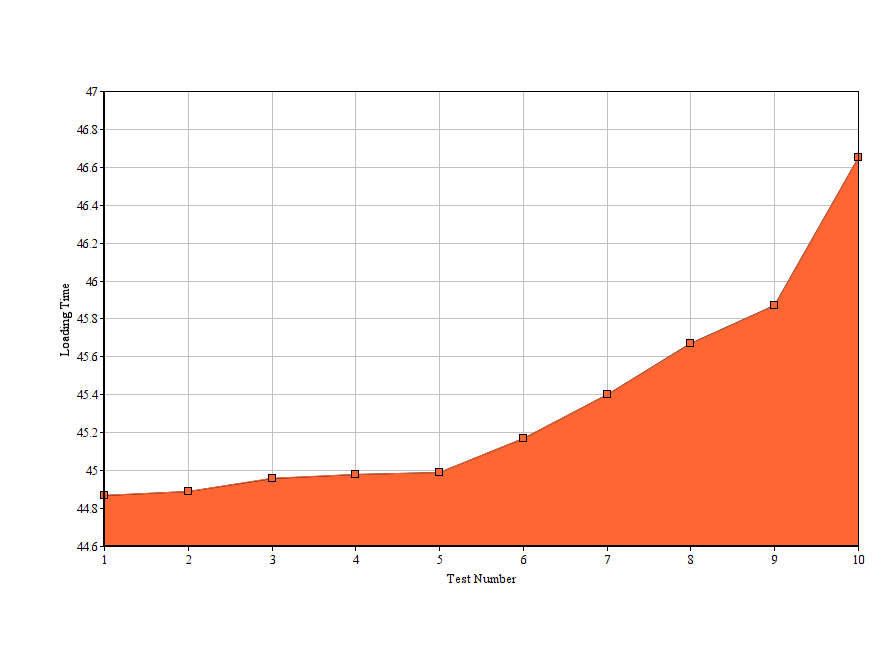
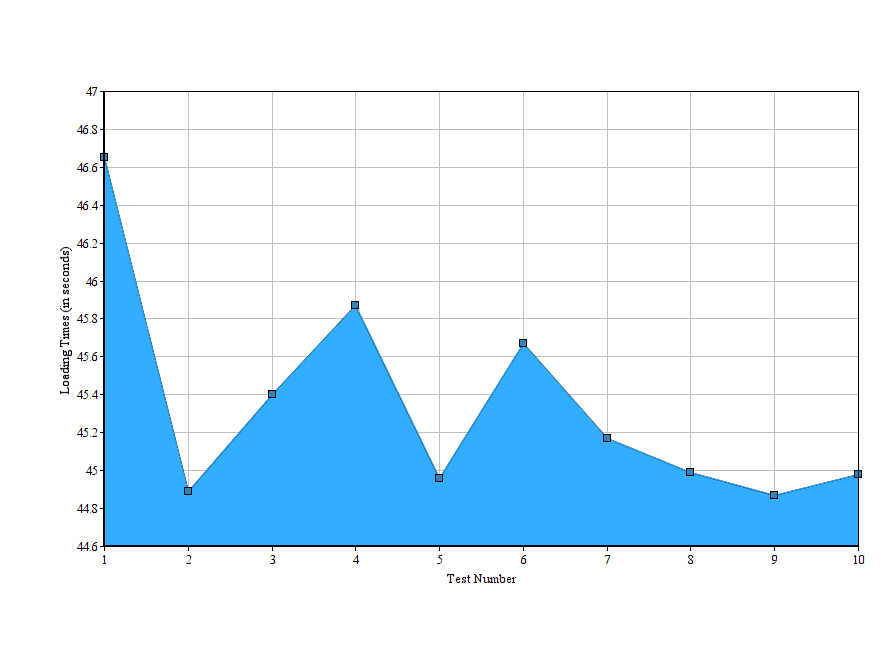
Edited some stuff.

Changed region(s): [[0.0611, 0.2462, 0.9774, 0.8615]]

diff --git a/_posts/2016-05-10-speed-testing-the-eup-homepage.md b/_posts/2016-05-10-speed-testing-the-eup-homepage.md
@@ -2,13 +2,16 @@
 layout:     post
 title:      "Speed Testing the eUP Homepage"
 subtitle:   "The eUP homepage seems to load fast. But how long does it really fully load?"
-date:       2016-05-12 14:33
+date:       2016-06-11 14:33
 author:     "Sean Francis N. Ballais"
 permalink:  /blog/speed-testing-the-eup-homepage/
 header-img: "img/posts/speed-testing-the-eup-homepage/header.jpg"
 comments: true
 description: ""
 ---
+
+EDIT (June 11, 2016, 2:50 PM): Added a disclaimer.
+EDIT (June 11, 2016, 6:32 PM): Corrected the graph's x axis to use the unsorted loading times. Corrected some grammar. Changed the order of the loading times in a paragraph.
 
 Recently, I have read that the university I am currently studying in, University of the Philippines Visayas Tacloban College, will slowly be shifting to use a new system called [eUP](http://e.up.edu.ph/) that provides university functionalities such as student enrollment, and data management that can be accessed by all University of the Philippines campuses in one website. This new system has issues that came along with it but I will not  delve much into that.
 
@@ -26,7 +29,7 @@ I hard loaded the homepage ten times giving me a data set of ten elements where 
 
 ![Chrome Web Developer Tools](/static/img/posts/speed-testing-the-eup-homepage/web-developer-tools.png)
 
-The exact loading times (in seconds) that I got from the site are (sorted ascendingly) `44.87`, `44.89`, `44.96`, `44.98`, `44.99`, `45.17`, `45.40`, `45.67`, `45.87`, and `46.65`. Based on the data that I got, the site fully loads between 44.87s and 46.65s giving us a mean loading time of 45.345s and a median loading time of 45.08s. However, the site can already show the contents within a few seconds.
+The exact loading times (in seconds) that I got from the site are `46.65`, `44.89`, `45.40`, `45.87`, `44.96`, `45.67`, `45.17`, `44.99`, `44.87`, and `44.98`. Based on the data that I got, the site fully loads between 44.87s and 46.65s giving us a mean loading time of 45.345s and a median loading time of 45.08s. However, the site can already show the contents within a few seconds.
 
 ![Graph](/static/img/posts/speed-testing-the-eup-homepage/chart.png)
 
